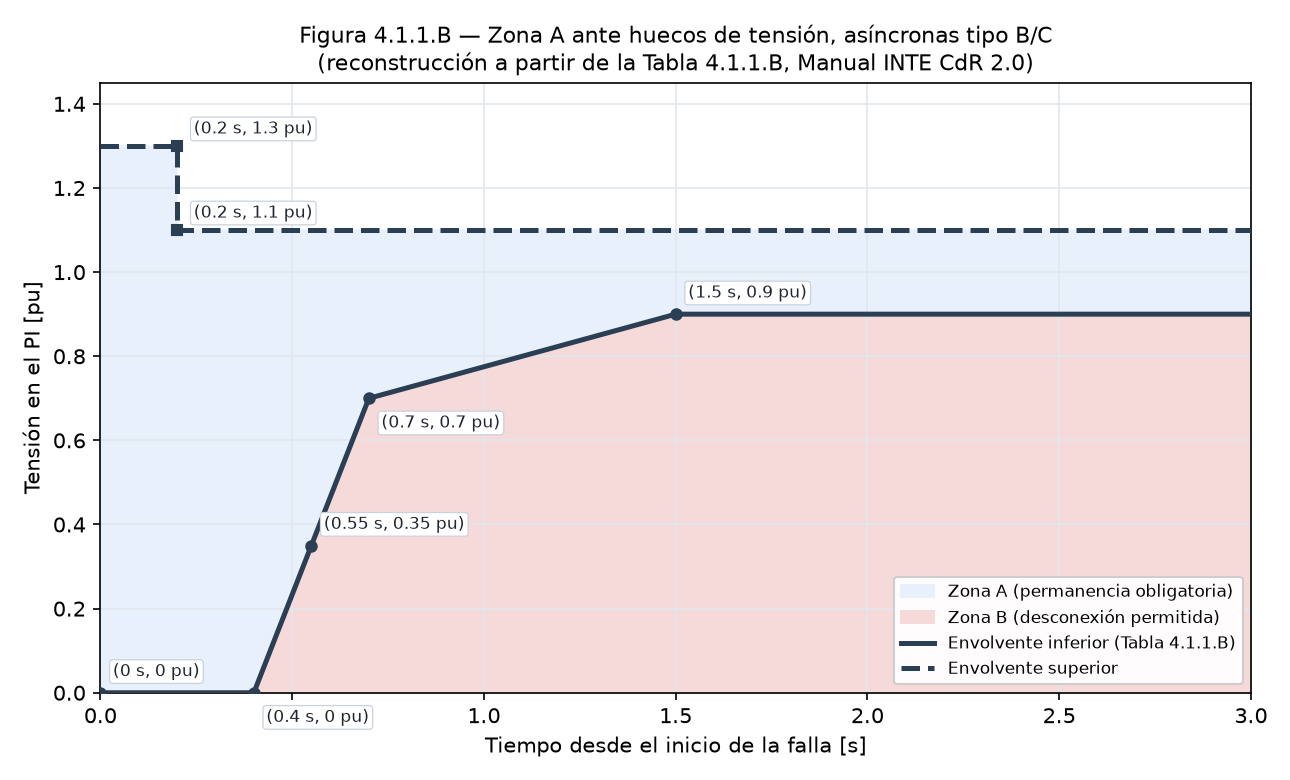
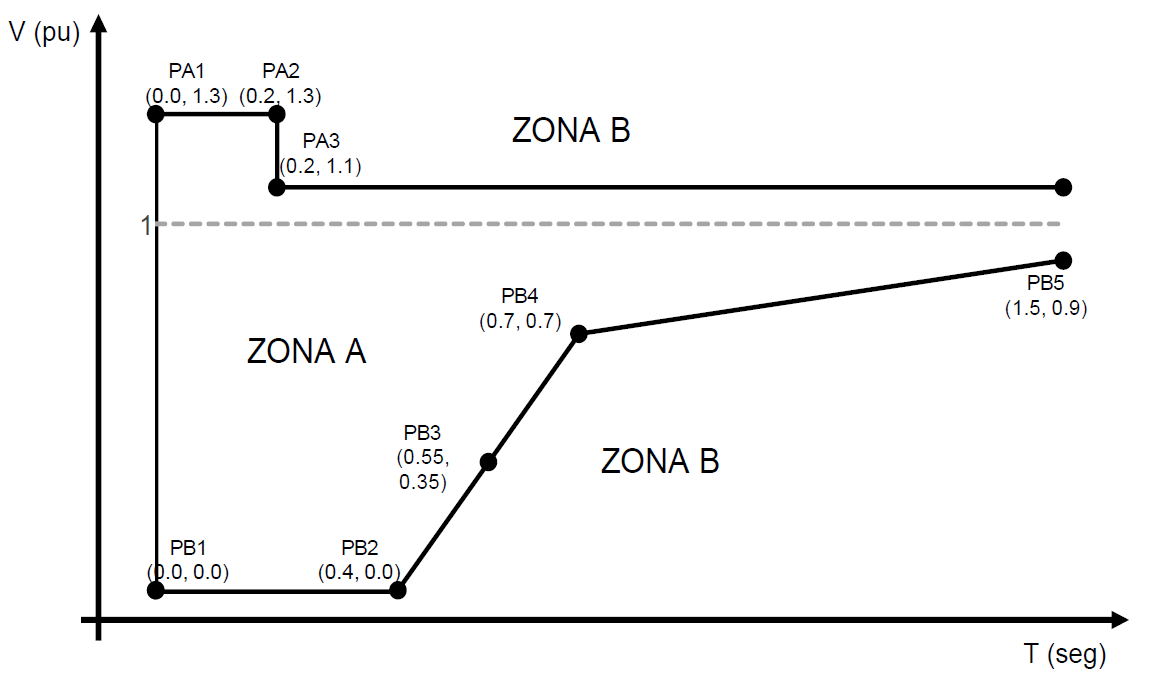
Usar Figura 4.1.1.B oficial del Código de Red 2.0 y cotejar tablas de huecos
El usuario subió a main el PDF oficial (DOF 31-dic-2021). Con esa fuente:
- figura_4_1_1_b.png ahora es la figura oficial extraída de la pág. 1066
  (sustituye a la reconstrucción; los 8 puntos coincidían exactamente).
- Cotejadas las 4 tablas de huecos (4.1.1.A/B y 4.2.1.A/B) y la
  recuperación post-falla 0.25-0.5 s contra el DOF: coinciden con
  tablas_cdr2.yaml; se deja constancia en el propio YAML.
- Suite 132 en verde.

Claude-Session: https://claude.ai/code/session_01Xyg9crpGMb5c7SLUzCTV7x

diff --git a/src/gcv/reporting/figuras_normativas.py b/src/gcv/reporting/figuras_normativas.py
@@ -21,8 +21,8 @@ TITULOS = {
     "figura_3_5_1": "Figura 3.5.1 — Perfil P-Q/Pmáx (asíncronas)",
     "figura_3_5_2": "Figura 3.5.2 — Perfil V-P-Q/Pmáx (asíncronas)",
     "figura_4_1_1_a": "Figura 4.1.1.A — Zona A ante huecos de tensión (síncronas B/C)",
-    "figura_4_1_1_b": "Figura 4.1.1.B — Zona A ante huecos de tensión (asíncronas B/C; "
-                      "reconstrucción a partir de la Tabla 4.1.1.B)",
+    # extraída del Código de Red 2.0 oficial (DOF 31-dic-2021, pág. 1066)
+    "figura_4_1_1_b": "Figura 4.1.1.B — Zona A ante huecos de tensión (asíncronas B/C)",
     "figura_4_2_1": "Figura 4.2.1 — Zona A ante huecos de tensión (síncronas D)",
     "figura_4_2_1_b": "Figura 4.2.1.B — Zona A ante huecos de tensión (asíncronas D)",
 }

diff --git a/tests/unit/test_reporting_visualizacion.py b/tests/unit/test_reporting_visualizacion.py
@@ -240,6 +240,5 @@ def test_figuras_huecos_por_tipo():
         assert figs[0][1].exists()
     # sin tipo conocido: ambas variantes como referencia
     assert len(figuras_para("CE-V-07", "ASINCRONA")) == 2
-    # la reconstrucción queda identificada en el título
     titulo = figuras_para("CE-V-07", "ASINCRONA", "B")[0][0]
-    assert "reconstrucción" in titulo and "4.1.1.B" in titulo
+    assert "4.1.1.B" in titulo